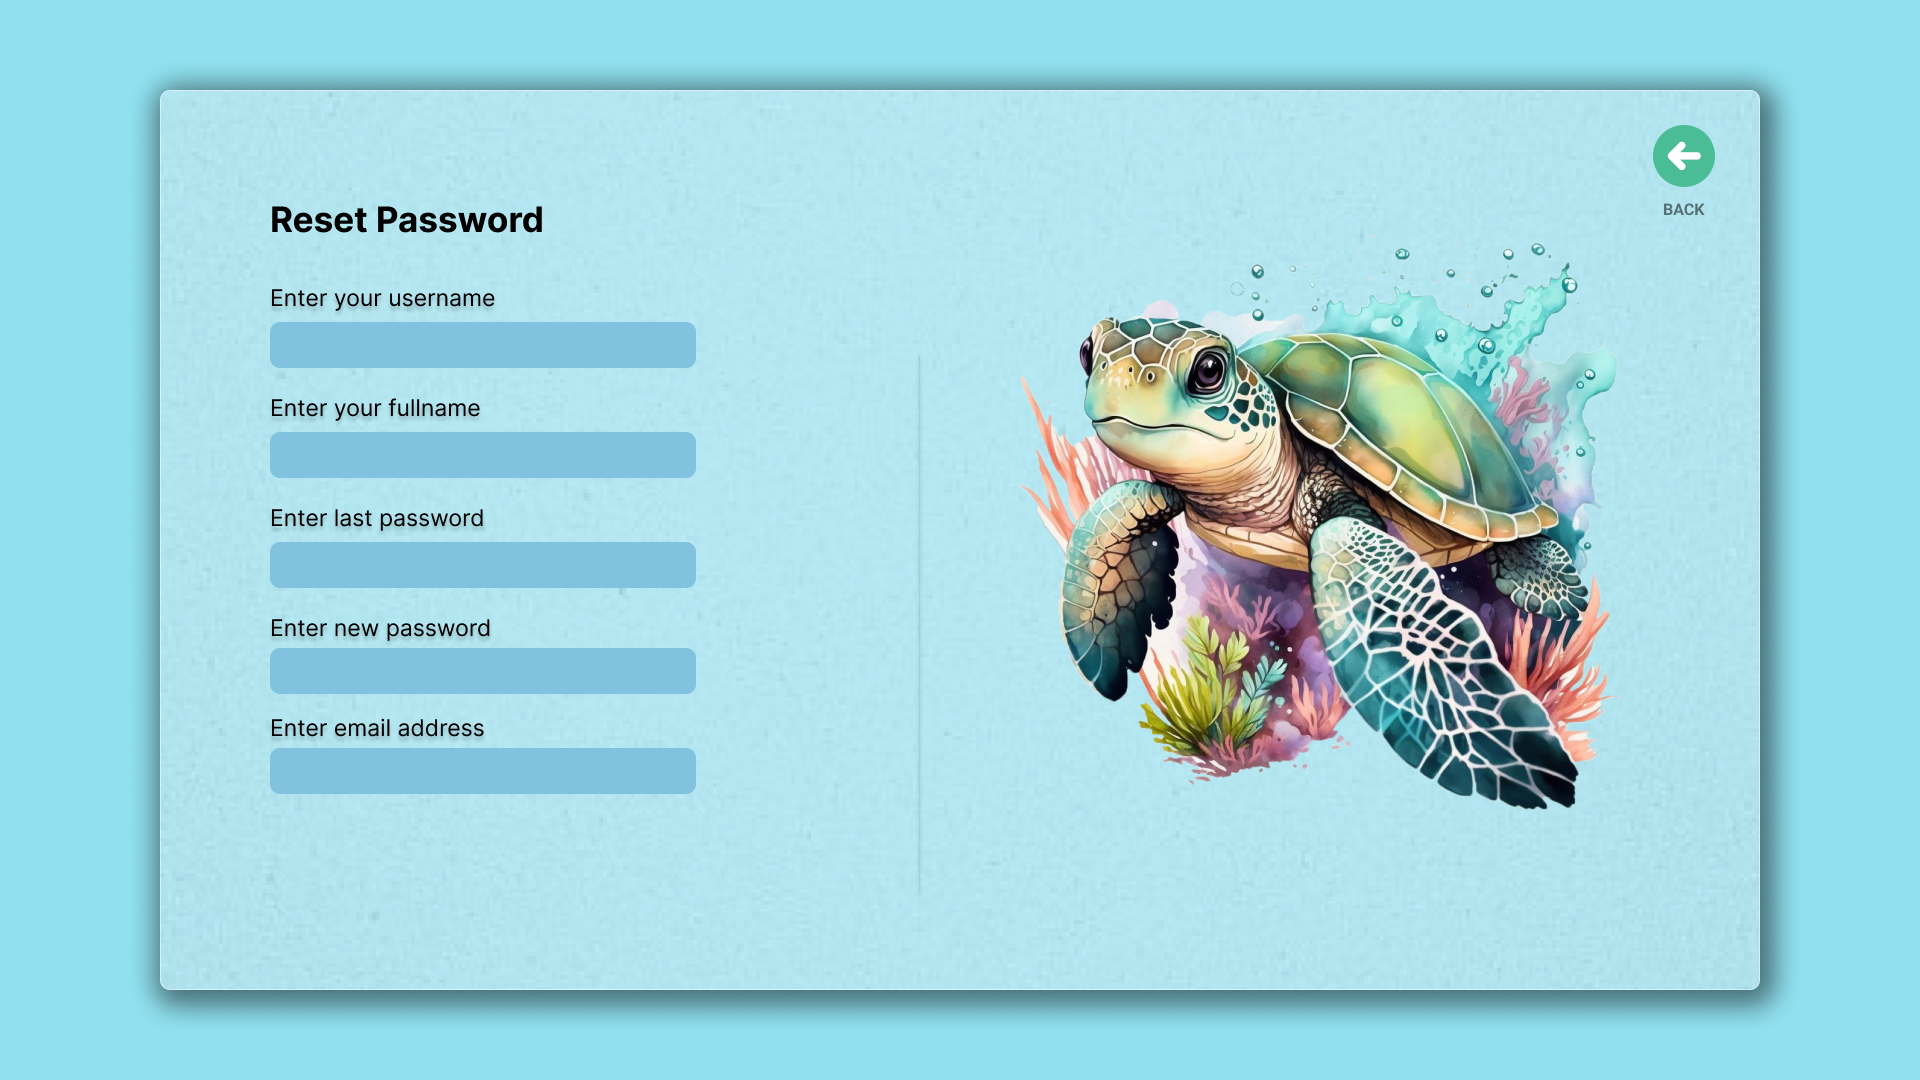
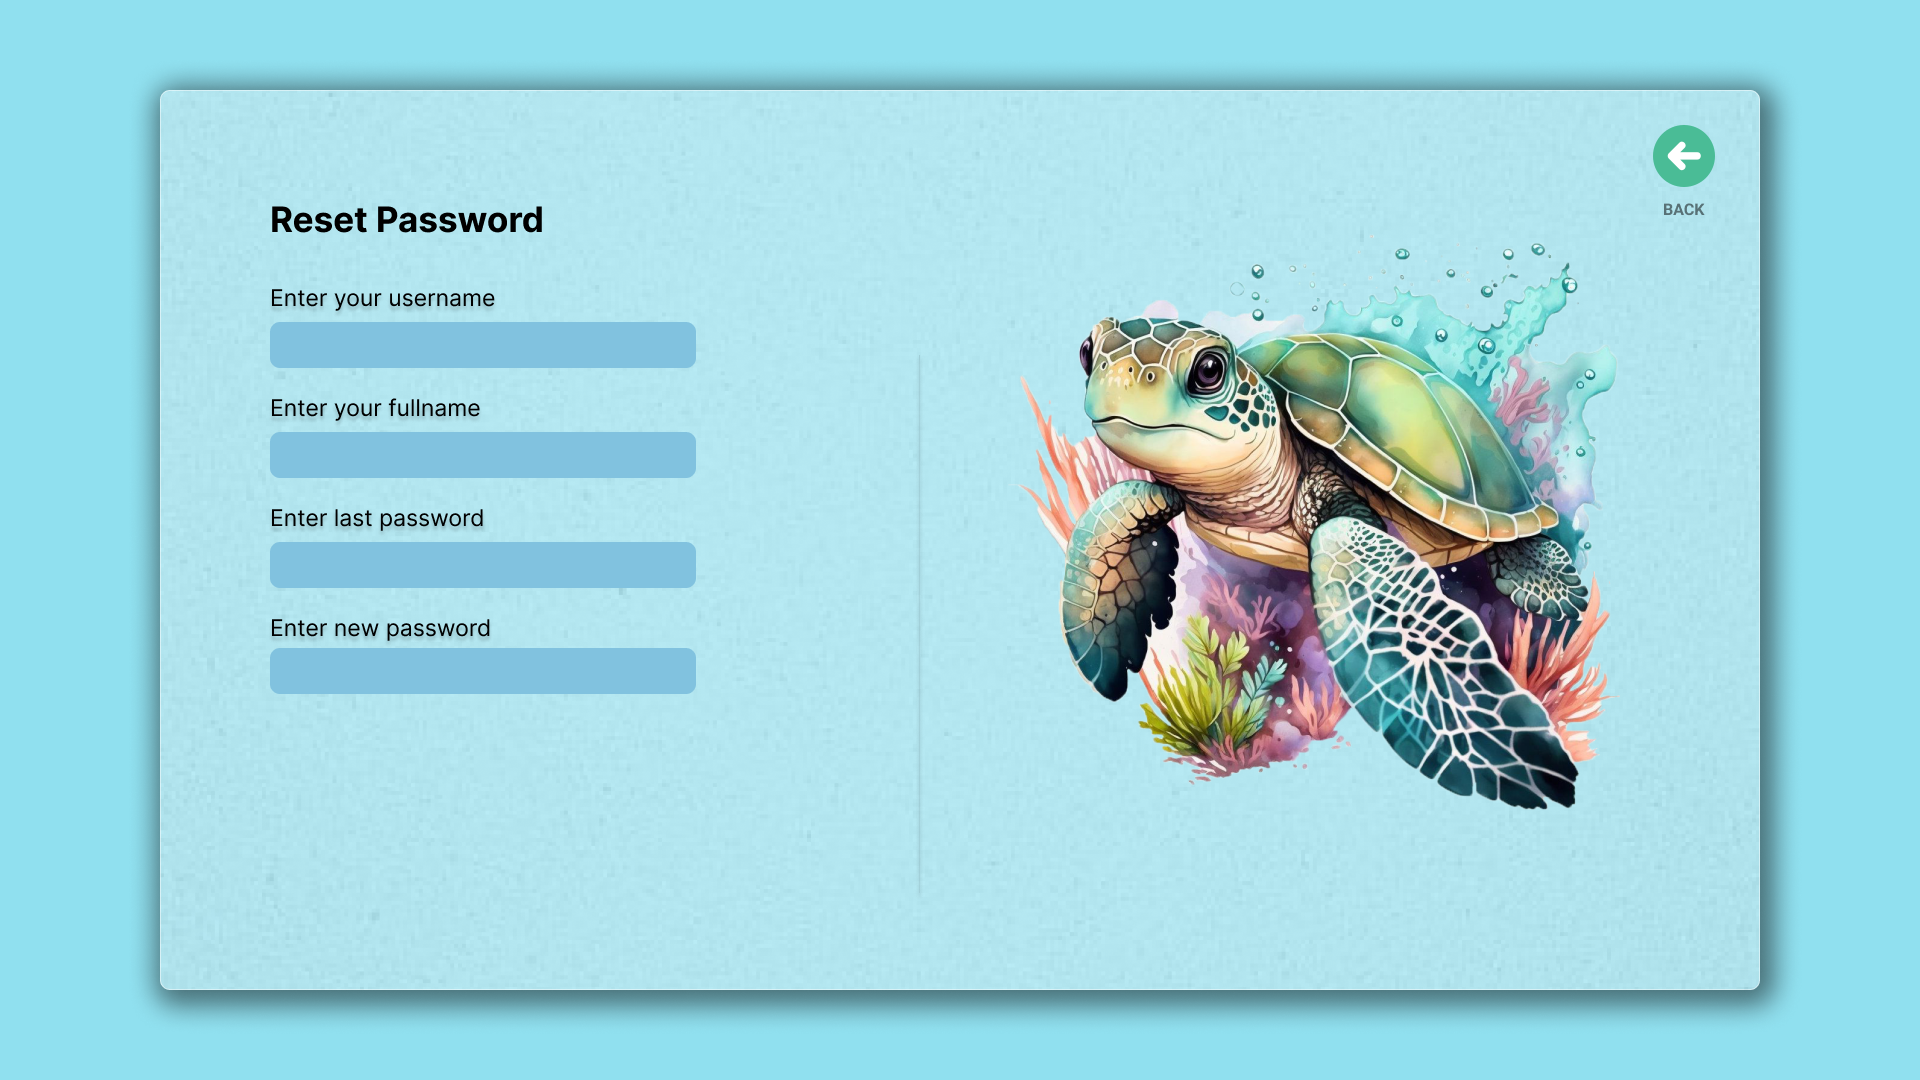
login details

Changed region(s): [[0.125, 0.6722, 0.375, 0.7333]]

diff --git a/turtleCare/src/main/java/lk/ijse/controller/ForgotPasswordFormController.java b/turtleCare/src/main/java/lk/ijse/controller/ForgotPasswordFormController.java
@@ -7,6 +7,9 @@ import javafx.fxml.FXMLLoader;
 import javafx.scene.Parent;
 import javafx.scene.Scene;
 import javafx.scene.control.Button;
+import javafx.scene.control.Label;
+import javafx.scene.control.PasswordField;
+import javafx.scene.control.TextField;
 import javafx.scene.input.MouseEvent;
 import javafx.scene.layout.AnchorPane;
 import javafx.scene.layout.Pane;
@@ -20,13 +23,34 @@ import java.util.Objects;
 public class ForgotPasswordFormController {
 
     @FXML
+    private Button btnBack;
+
+    @FXML
+    private JFXButton btnOTP;
+
+    @FXML
     private JFXButton btnReset;
+
+    @FXML
+    private TextField emailAddress;
 
     @FXML
     private AnchorPane forgetPassword;
 
     @FXML
-    private Button btnBack;
+    private TextField fullName;
+
+    @FXML
+    private PasswordField lastPw;
+
+    @FXML
+    private PasswordField newPw;
+
+    @FXML
+    private TextField userName;
+
+    @FXML
+    private Label wrongPw;
 
     @FXML
     void backBtnOnAction(ActionEvent event) throws IOException {
@@ -44,8 +68,39 @@ public class ForgotPasswordFormController {
         stage.show();
     }
     @FXML
-    void resetBtnOnAction(ActionEvent event) throws IOException {
+    void resetBtnOnAction(ActionEvent event) throws IOException, SQLException {
+        String[][] details = JDBC.getDetails("user",6);
 
+        for (int i = 0; i < details[i].length; i++) {
+            if (details[i][5].equals(lastPw.getText())){
+                JDBC.setDetails("UPDATE turtlescare.user t\n" +
+                        "SET t.lastPassword = '"+ details[i][3] +"'\n" +
+                        "WHERE t.userId LIKE '"+ details[i][0] +"' ESCAPE '#'");
+
+                JDBC.setDetails("UPDATE turtlescare.user t\n" +
+                        "SET t.password = '"+ newPw.getText() +"'\n" +
+                        "WHERE t.userId LIKE '"+ details[i][0] +"' ESCAPE '#'");
+                Stage stage = (Stage) btnReset.getScene().getWindow();
+                stage.close();
+
+                Parent rootNode = FXMLLoader.load(Objects.requireNonNull(this.getClass().getResource("/view/loginForm.fxml")));
+
+                Scene scene = new Scene(rootNode);
+
+                stage.setTitle("Login page");
+                stage.centerOnScreen();
+                stage.setScene(scene);
+
+                stage.show();
+                break;
+            } else {
+                wrongPw.setText("your last password is invalid");
+            }
+        }
     }
 
+    @FXML
+    void OTPBtnOnAction(ActionEvent event) {
+
+    }
 }

diff --git a/turtleCare/src/main/java/lk/ijse/controller/LoginFormController.java b/turtleCare/src/main/java/lk/ijse/controller/LoginFormController.java
@@ -44,7 +44,7 @@ public class LoginFormController {
 
     @FXML
     void loginBtnOnAction(ActionEvent event) throws IOException {
-        String[][] details = JDBC.getDetails("user",5);
+        String[][] details = JDBC.getDetails("user",6);
 
         String usName = txtUsername.getText();
         String pw = txtPassword.getText();
